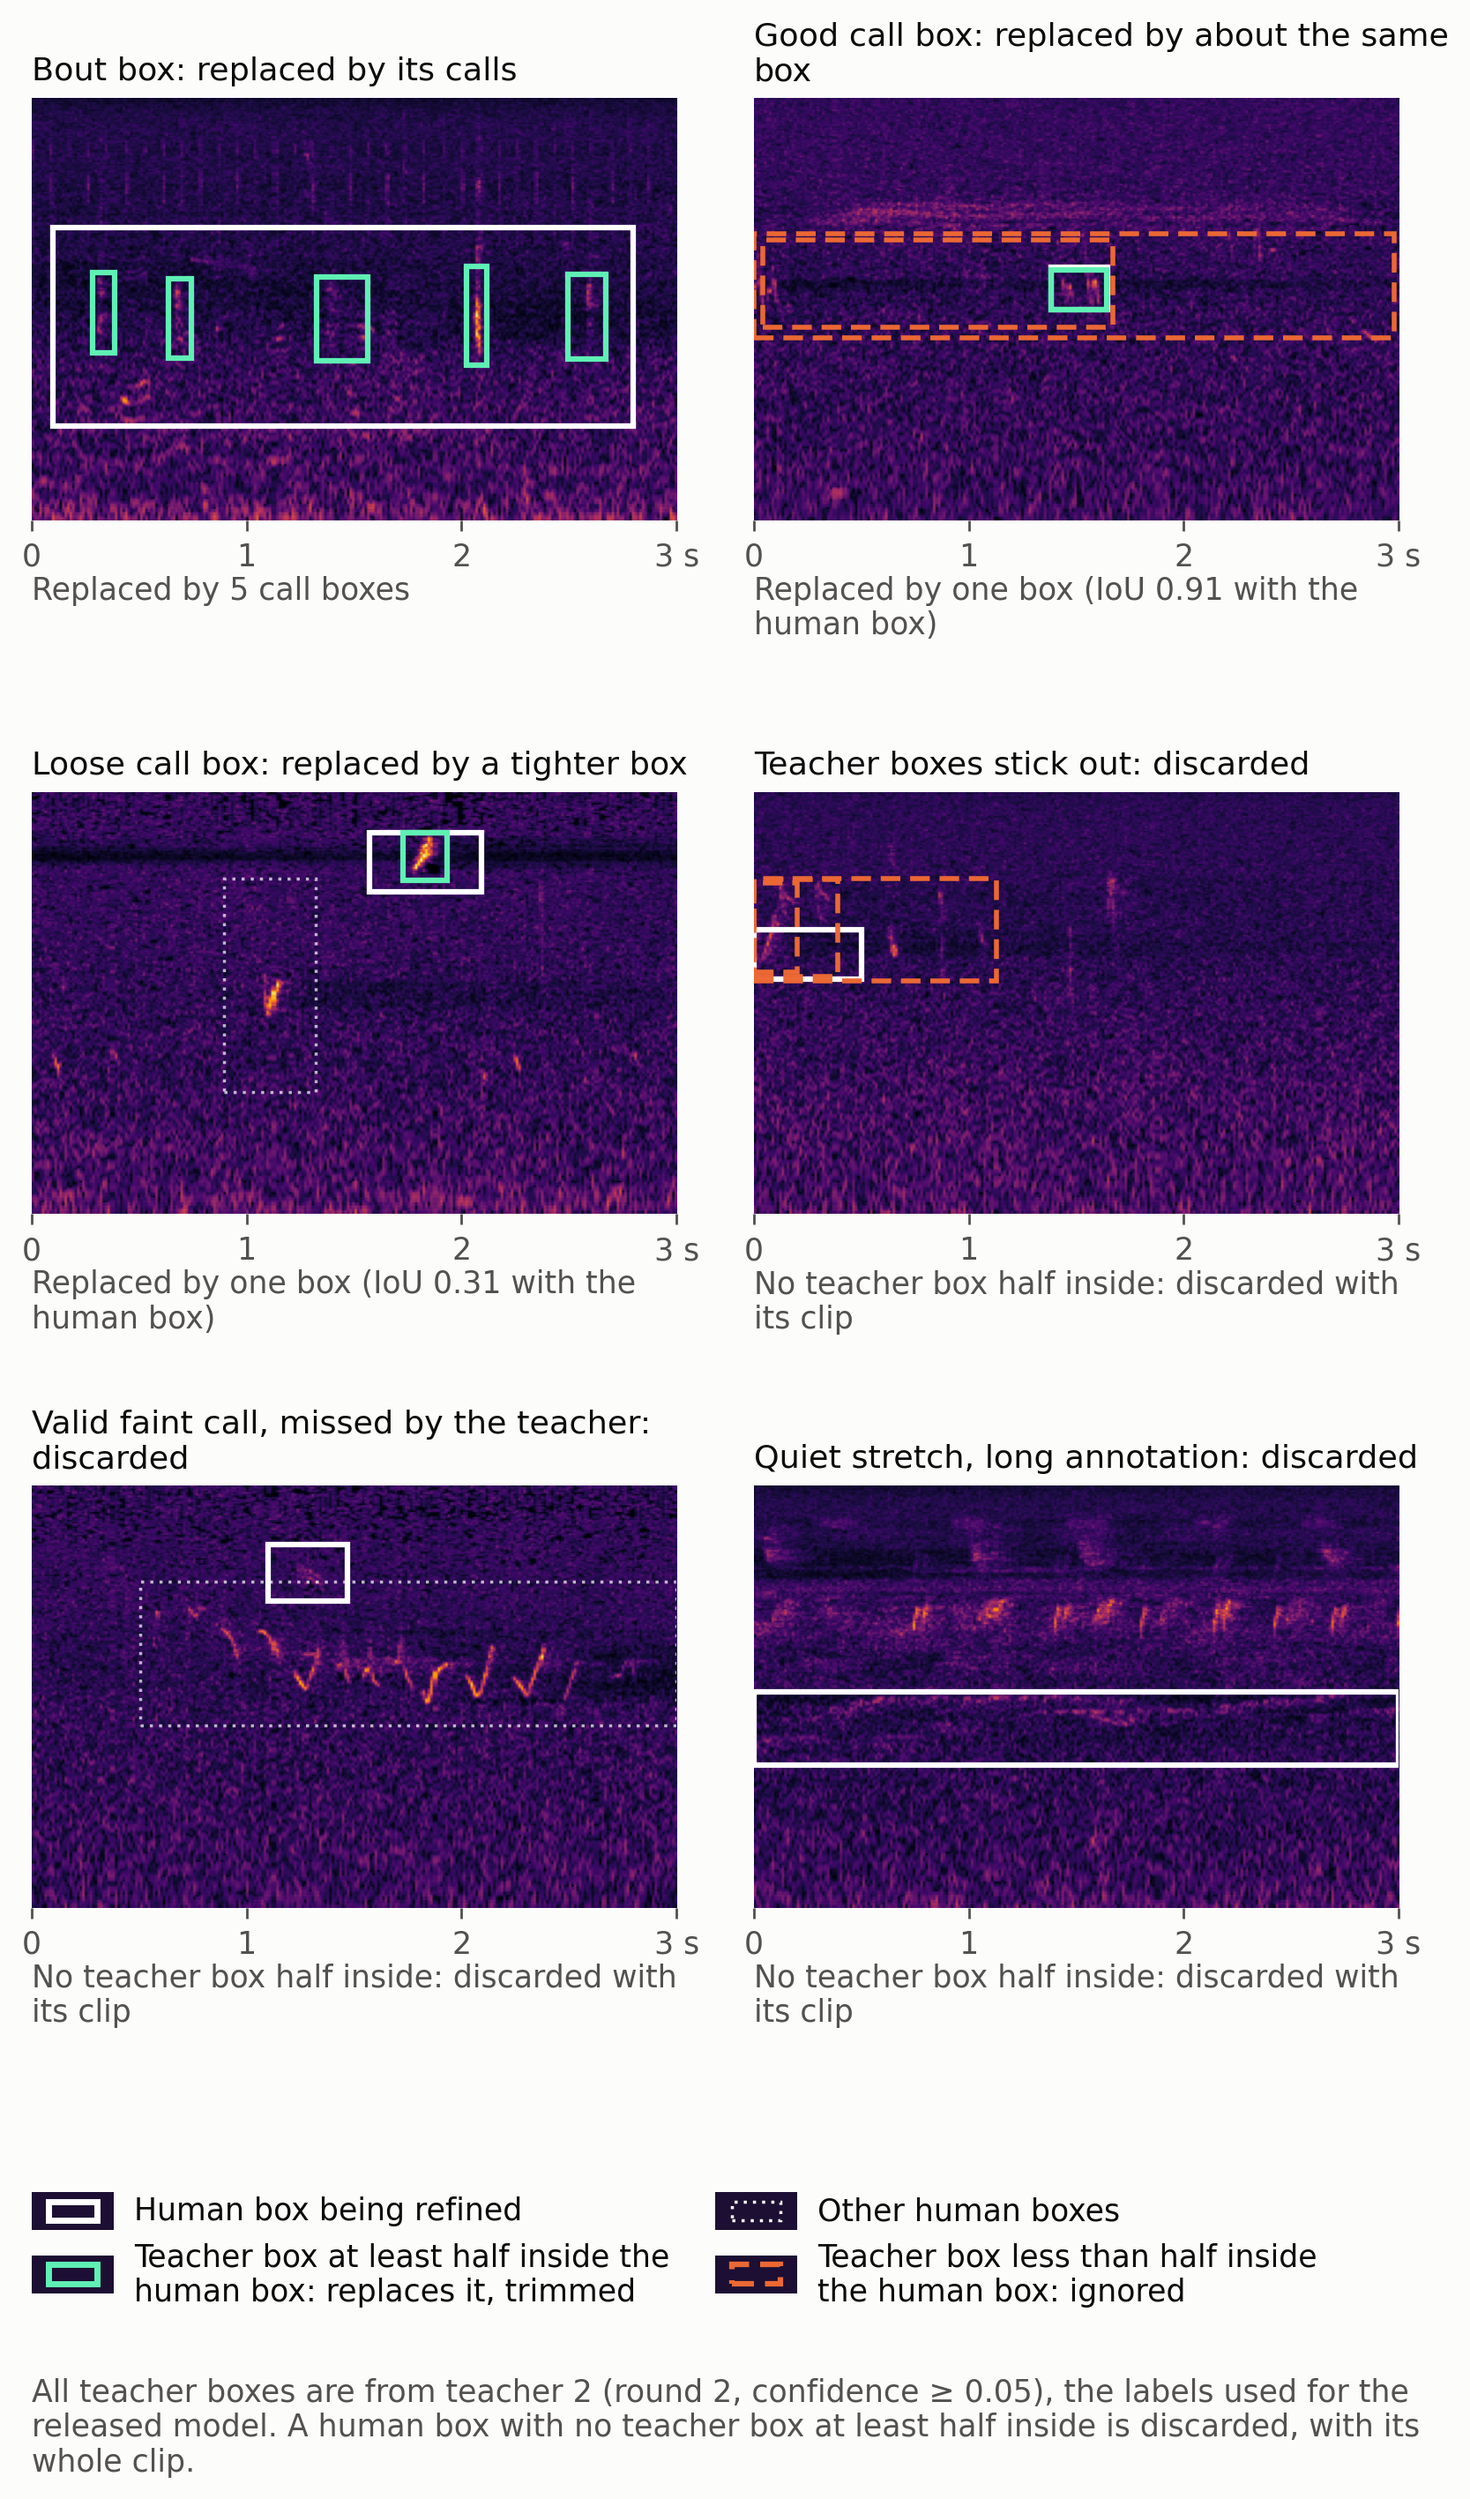
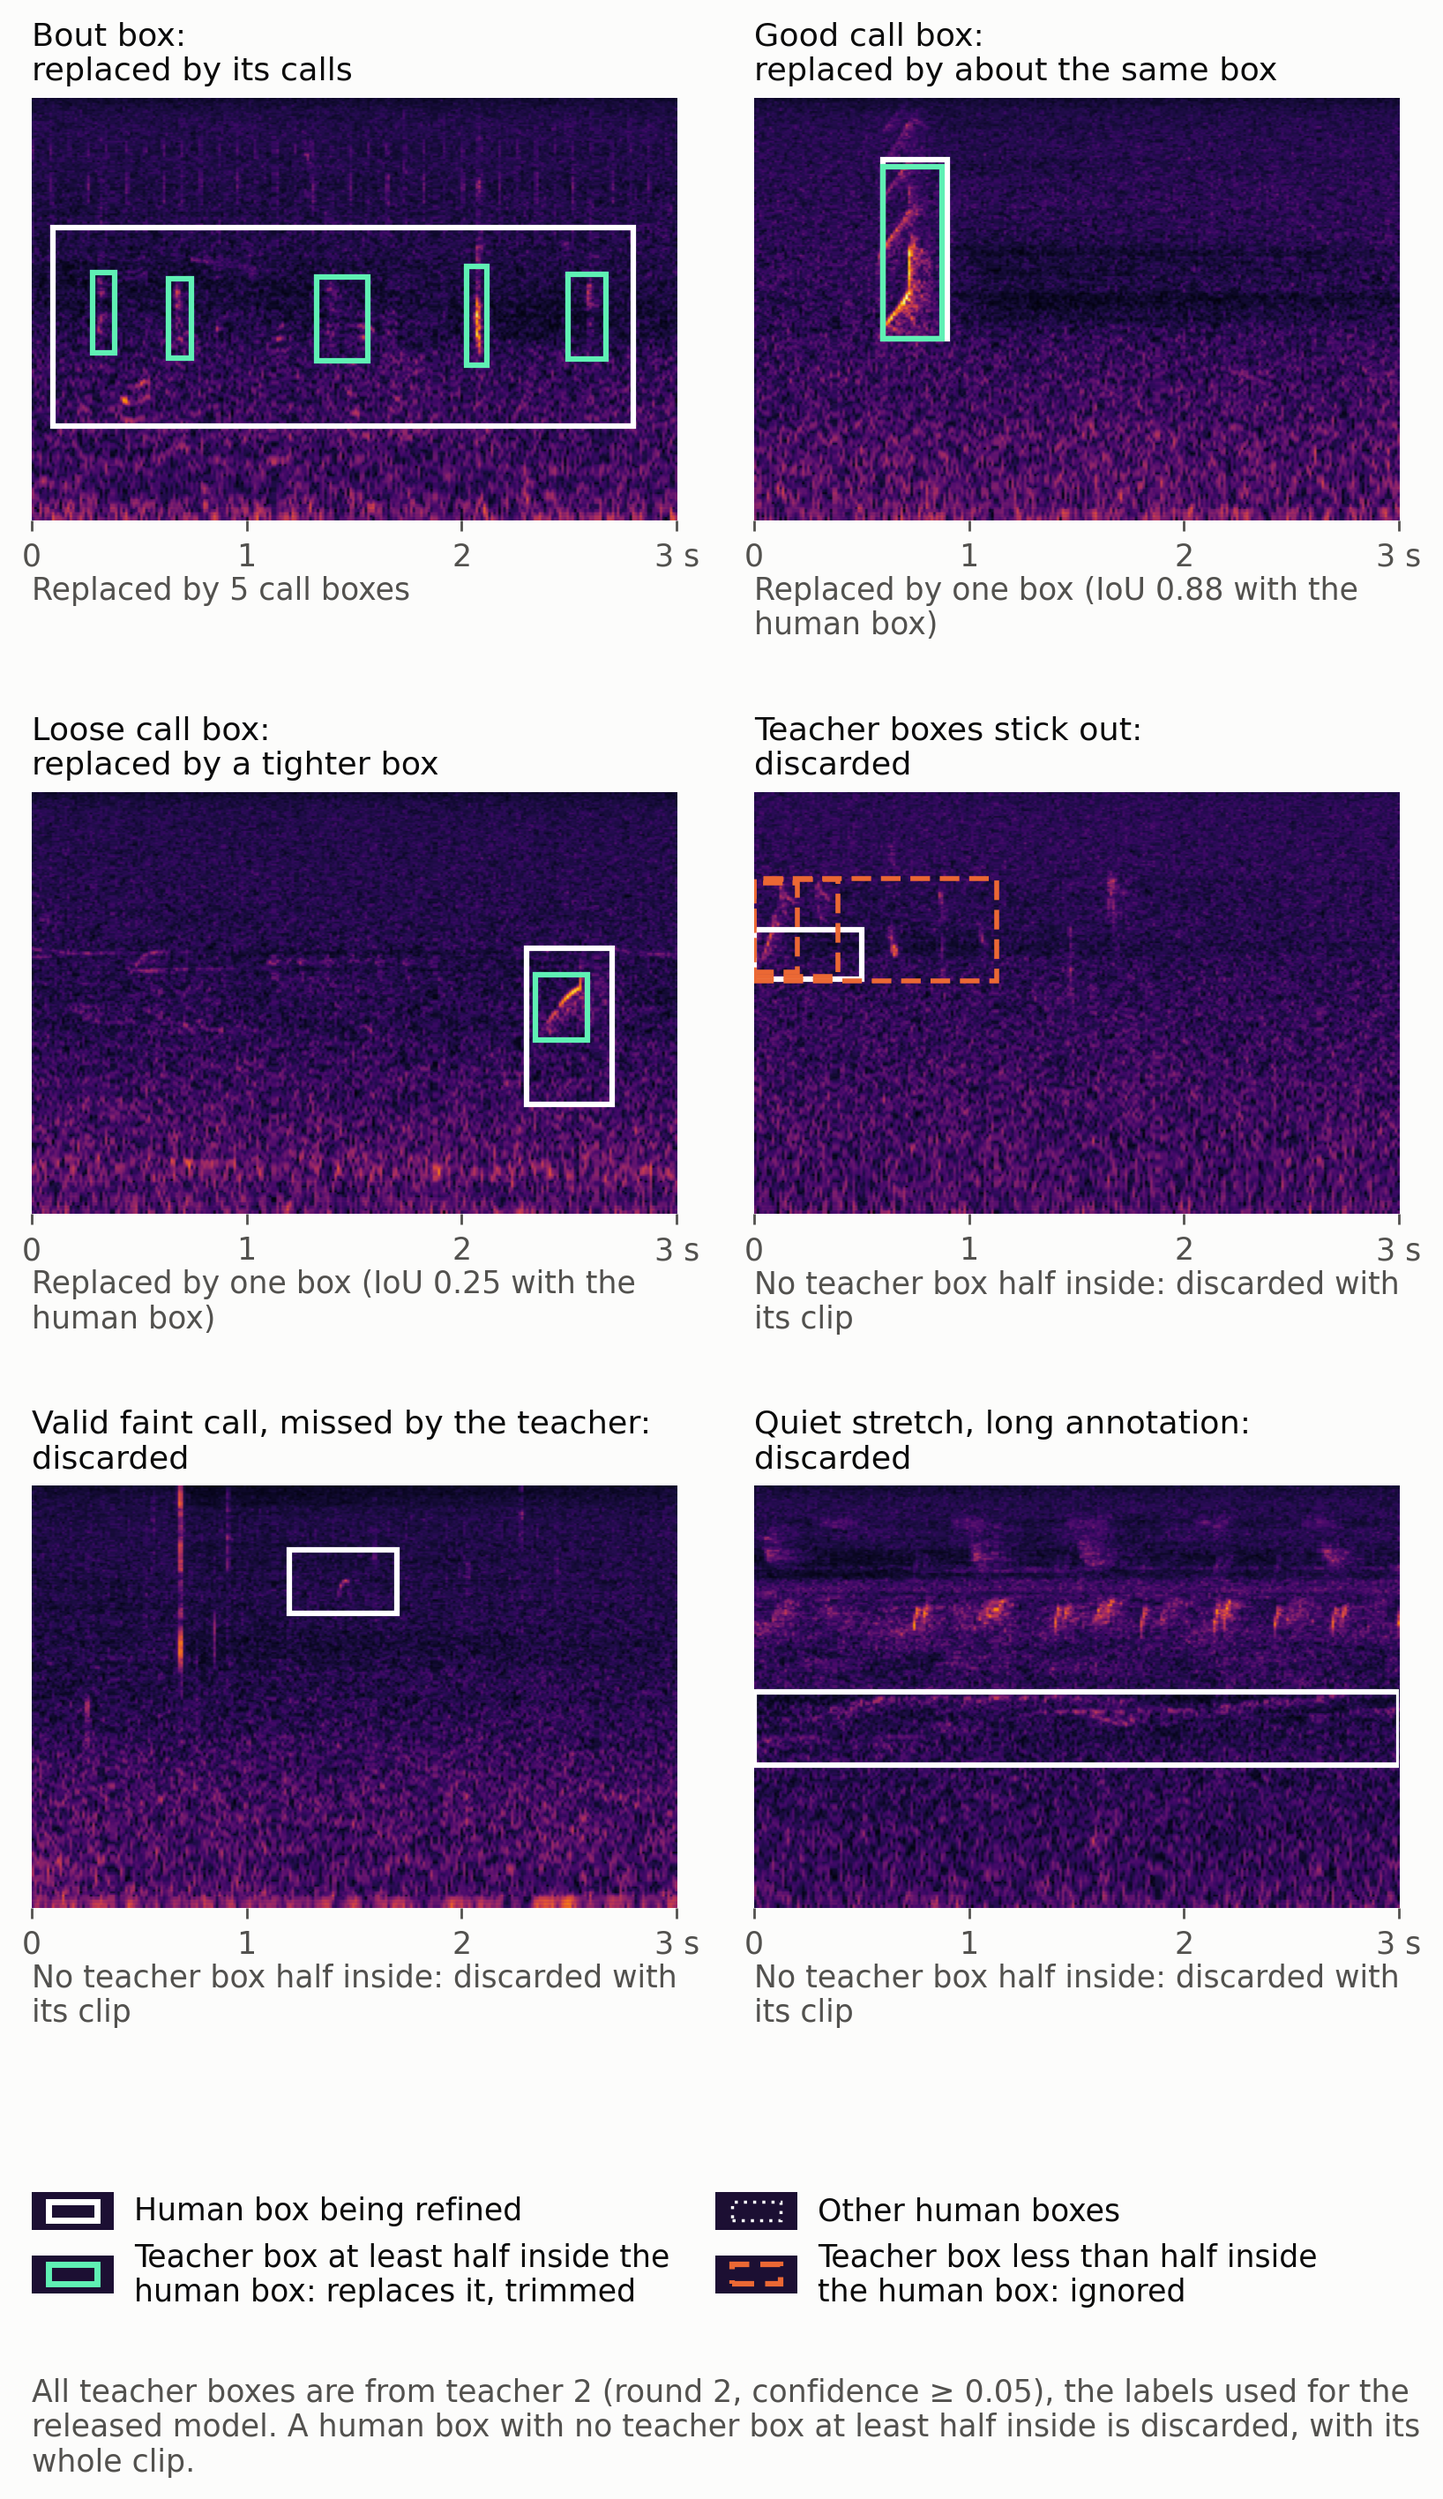
docs: real-clip figure uses CC BY clips only
The three Bird-Sounds-Global clips (xeno-canto, CC BY-NC-SA 4.0) are
replaced by Northeastern US clips (CC BY 4.0) that show the same cases:
a good call box (IoU 0.88), a loose call box (IoU 0.25) and a valid faint
call that neither teacher touches, even at confidence 0.001. The figure
is now CC BY 4.0; NOTICE.md and the page text follow, and the text names
the clips by position instead of rows (the figure is 3 x 2 since the
resize).

diff --git a/NOTICE.md b/NOTICE.md
@@ -46,7 +46,7 @@ them.
 | `tests/test.wav` and the spectrogram image `docs/img/example_viz.png` | CC-BY-4.0 | Soundscape `UHH_001_S01_20161121_150000` from the BirdNET Hawaii soundscape collection, and a spectrogram of it. Attribution [below](#audio-samples). |
 | `docs/audio/BirdNET_soundscape_32kHz.flac`, the screenshots `docs/img/demo_screenshot_light.png`, `docs/img/demo_screenshot_dark.png` and the figures `docs/img/how-it-works/window_fusion.png`, `docs/img/how-it-works/window_fusion_dark.png` | MIT | Example soundscape `birdnet_analyzer/example/soundscape.wav` of [BirdNET-Analyzer](https://github.com/birdnet-team/BirdNET-Analyzer) (Copyright (c) 2024 birdnet-team, MIT License), resampled from 48 kHz to 32 kHz. The same file is the sample of the BirdNET website demo. The screenshots show it in the Demo tab; the figures show a spectrogram of it with BirdBox detections. |
 | `docs/img/metrics/just_bird_label_example.png`, `docs/img/metrics/just_bird_label_example_dark.png` | CC-BY-4.0 | Spectrogram of a training clip from the Northeastern United States soundscape collection, with annotation boxes. Attribution [below](#training-clips-in-the-documentation-figures). |
-| `docs/img/metrics/just_bird_refine_cases.png`, `docs/img/metrics/just_bird_refine_cases_dark.png` | CC-BY-NC-SA-4.0 | Spectrograms of six training clips with annotation boxes. Three are adapted from xeno-canto recordings under CC BY-NC-SA 4.0, so the figure as a whole is shared under that license; the other three come from CC BY 4.0 soundscape collections. Attribution [below](#training-clips-in-the-documentation-figures). |
+| `docs/img/metrics/just_bird_refine_cases.png`, `docs/img/metrics/just_bird_refine_cases_dark.png` | CC-BY-4.0 | Spectrograms of six training clips from the Northeastern United States, Western United States and Southwestern Amazon Basin soundscape collections, with annotation boxes. Attribution [below](#training-clips-in-the-documentation-figures). |
 | `taxonomies/Cornell-to-AviList-mapping.json` | CC-BY-4.0 | Data derived from the AviList v2025 checklist. Attribution [below](#avilist). |
 | Soundscapes fetched by `tests/parity_audio/download.py` | Not MIT | Not part of the repository. xeno-canto recordings under the Creative Commons licenses listed in `tests/parity_audio/recordings.csv`. |
 
@@ -85,7 +85,9 @@ Just-Bird model. They are taken from:
 > Stefan Kahl, Russell Charif, Holger Klinck (2022). *A collection of
 > fully-annotated soundscape recordings from the Northeastern United States*
 > (Version 2) [Data set]. Zenodo. https://doi.org/10.5281/zenodo.7079380
-> (clip `SSW_101_9_12.0s_to_15.0s`, in both figures)
+> (clip `SSW_101_9_12.0s_to_15.0s` in both figures; clips
+> `SSW_240_40_7.5s_to_10.5s`, `SSW_109_10_13.5s_to_16.5s` and
+> `SSW_060_53_39.0s_to_42.0s` in `just_bird_refine_cases*.png`)
 
 > Stefan Kahl, Connor M. Wood, Philip Chaon, M. Zachariah Peery, Holger Klinck
 > (2022). *A collection of fully-annotated soundscape recordings from the Western
@@ -100,19 +102,9 @@ Just-Bird model. They are taken from:
 These three collections are licensed under
 [Creative Commons Attribution 4.0 International (CC BY 4.0)](https://creativecommons.org/licenses/by/4.0/).
 
-The other three clips in `just_bird_refine_cases*.png` come from xeno-canto
-soundscapes of the Bird Sounds Global, Lifeplan and SystemShift projects:
-
-- [XC1123613](https://xeno-canto.org/1123613), recorded by SystemShift (Dry Chaco, Argentina), clip 3–6 s
-- [XC1125444](https://xeno-canto.org/1125444), recorded by BSG – site Municipio Asunción Ixtaltepec (Nizanda, Mexico), clip 9–12 s
-- [XC1132774](https://xeno-canto.org/1132774), recorded by BSG – Lifeplan Nordic (Skommarhyttan, Sweden), clip 43.5–46.5 s
-
-These recordings are licensed under
-[Creative Commons Attribution-NonCommercial-ShareAlike 4.0 International (CC BY-NC-SA 4.0)](https://creativecommons.org/licenses/by-nc-sa/4.0/).
-
-Changes: each clip is a 3 s excerpt, resampled to 32 kHz where needed and
-converted to a PCEN mel spectrogram. The human annotation boxes and the boxes of
-the BirdBox label refinement are drawn on top.
+Changes: each clip is a 3 s excerpt, converted to a PCEN mel spectrogram. The
+human annotation boxes and the boxes of the BirdBox label refinement are drawn
+on top.
 
 ## AviList
 

diff --git a/docs/models-and-metrics/just-bird-label-refinement.md b/docs/models-and-metrics/just-bird-label-refinement.md
@@ -61,12 +61,12 @@ Real clips from the training data. All teacher boxes in the figure are from **te
 <img src="../../img/metrics/just_bird_refine_cases.png#only-light" width="1000" alt="Six training clips: a bout box replaced by five call boxes, a good call box replaced by an almost identical box, a loose call box replaced by a tighter one, and three boxes that are discarded">
 <img src="../../img/metrics/just_bird_refine_cases_dark.png#only-dark" width="1000" alt="Six training clips: a bout box replaced by five call boxes, a good call box replaced by an almost identical box, a loose call box replaced by a tighter one, and three boxes that are discarded">
 
-In the top row the human box is replaced: a bout box by five call boxes, a call box that already fits its call by an almost identical box, and a loose call box by a tighter one. In the bottom row it is discarded with its clip, for the reasons in [Why Boxes Are Discarded](#why-boxes-are-discarded).
+In the first three clips the human box is replaced: a bout box by five call boxes, a call box that already fits its call by an almost identical box, and a loose call box by a tighter one. In the last three it is discarded with its clip, for the reasons in [Why Boxes Are Discarded](#why-boxes-are-discarded).
 
-The bottom row, round by round:
+The last three clips, round by round:
 
 - **Teacher boxes stick out** (Western US): discarded in round 1 and in round 2.
-- **Valid faint call** (Bird-Sounds-Global): the human box is correct, but discarded in round 1 and in round 2. Neither teacher finds the call, even with the confidence cutoff lowered from 0.05 to 0.001: no box of teacher 1 or teacher 2 lies even a third inside the human box. So the clip is lost to training, with this good label and with the call box that replaced the bout box next to it. This is the price of the rule: a call that no teacher detects cannot be told apart from a stretch of silence inside a long annotation, and both are discarded.
+- **Valid faint call** (Northeastern US): the human box is correct, but discarded in round 1 and in round 2. Neither teacher finds the call, even with the confidence cutoff lowered from 0.05 to 0.001: no box of teacher 1 or teacher 2 even touches the human box. So the clip and its good label are lost to training. This is the price of the rule: a call that no teacher detects cannot be told apart from a stretch of silence inside a long annotation, and both are discarded.
 - **Quiet stretch** (Amazon Basin): replaced in round 1, where teacher 1 drew boxes in it, and discarded in round 2. It is one of the few clips that round 2 discards and round 1 kept (see the next section).
 
 Two things the rule cannot do:
